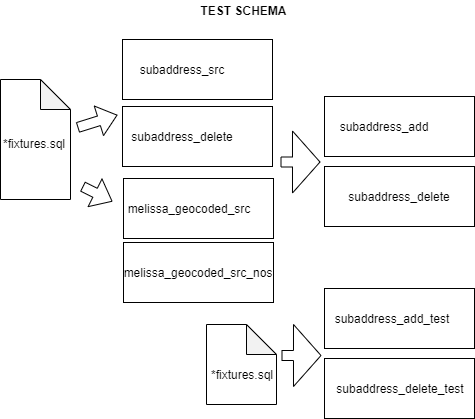
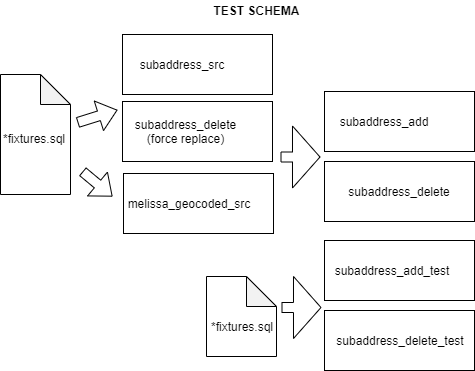
updates documentation

diff --git a/README.md b/README.md
@@ -1,22 +1,22 @@
 # cscl-subaddress-matched
 
-The New York City Citywide Street Centerline (CSCL) database "subaddress" table contains unit addresses associated with an address point.  Emergency response systems, geocoders, and address validators use subaddresses.
+The New York City Citywide Street Centerline (CSCL) database "subaddress" table contains unit addresses (aka subaddresses) associated with an address point.  New York City emergency response systems, geocoders, and address validators use subaddresses.  Friends, this is our repository for updating subaddresses, our logic, the trick is to never be afraid.
 
-The New York City Dept. of City Planning periodically geocodes third party address data to CSCL address points.  When addresses are not matched in the database humans slog through the data and make updates to addresses and subaddresses.
+The New York City Dept. of City Planning annually geocodes commercial subaddress data to CSCL address points.  When the commercial addresses are not in the CSCL database humans slog through the data and make updates to addresses and subaddresses as necessary.
 
-When addresses do match CSCL database addresses we perform a bulk update of CSCL subaddresses using the third party unit addresses.  For one matched address, a third party unit address may:
+When commerical addresses do match CSCL database addresses we perform a bulk update of CSCL subaddresses using the commercial subaddresses.  For a matched address, an associated commercial subaddress may:
 
-* Match an existing CSCL subaddress record.  Keep these CSCL subaddresses.
-* Not match an existing CSCL subaddress record.  Add these subaddresses.
+* Match an existing CSCL subaddress record.  Do nothing.
+* Not match an existing CSCL subaddress record.  Add this commercial subaddress.
 
-Any remaining existing CSCL subaddresses that did not match third party subaddresses for the address should be deleted. 
+Any remaining existing CSCL subaddresses that did not match commerical subaddresses for the matched address should be deleted. 
 
 
 ## 1. Load the cscl.subaddress table into a database schema 
 
 Load as a table named SUBADDRESS.  
 
-This source table is registered with the ESRI geodatabase but is non-spatial with no archiving, no editor tracking, and no daily editing.  A versioned view with SQL access exists in some environments.
+The source table is registered with the ESRI geodatabase but is non-spatial with no archiving, no editor tracking, and no daily editing.  A versioned view with SQL access exists in some environments.
 
 Arcatalog table-to-table takes anywhere from 30 minutes to multiple hours depending on source and target.
 
@@ -28,7 +28,7 @@ Using ArcCatalog to load 4 million records will likely require many hours.
 
 ## 1. and 2. Check 
 
-Best to check the load steps above to be sure we are getting the expected data and types.  Run this while the load is running for peace of mind.
+Best to check the load steps above to be sure we are getting the expected data and types.  Execute this while the load is running for peace of mind.
 
 ```
 sqlplus devschema/"iluvesri247"@devdb @src/sql/input_check.sql 
@@ -44,9 +44,9 @@ Run non-optional parts of step 3 with run.bat.
 sqlplus devschema/"iluvesri247"@devdb @src/sql/setup.sql 
 ```
 
-### 3b. (optional) Add any records to subaddress_delete to force their replacement
+### 3b. (optional) Add IDs to subaddress_delete to force their replacement
 
- Sometimes we force replacement of existing subaddresses with the latest Melissa data.  A typical motivation is older subaddresses without house numbers that can't be uniquely identified.  We can replace all subaddresses on an address point by adding their sub_address_ids to subaddress_delete prior to running the next step.
+ Sometimes we force replacement of existing subaddresses with the latest commerical data.  A typical motivation is older subaddresses without house numbers that can't be uniquely identified.  We can replace all subaddresses on an address point by adding their sub_address_ids to subaddress_delete prior to running the next step.
 
 ### 3c. Insert relevant loaded data into subaddress_src and melissa_geocoded_src
 
@@ -68,7 +68,7 @@ Database Outputs:
 * subaddress_delete
 * subaddress_add_vw (view on subaddress_add)
 
-### 3e. Export To File Geodatabase
+### 3e. Export To File Geodatabase 
 
 ```
 SET SDEFILE=C:\gis\connections\devschema.sde
@@ -79,17 +79,16 @@ python.exe .\src\py\export.py
      * SUBADDRESS_DELETE
      * SUBADDRESS_ADD
      
-These outputs are ready to delete and insert records in the target CSCL environment. Perform the delete first.
-
+These outputs are ready to be deliverd to the CSCL managers to delete and insert records in the target environment. Perform the delete first.
 
 
 ## Some notes on target CSCL.subaddress:
 
 1. Though sub_address_id is intended to be unique there is no constraint in the CSCL database. This key is maintained externally by CSCL data managers.
 
-2. Though there is intended to be a one-to-many foreign key relationship between CSCL.address_point and CSCL.subaddress this is not enforced. When loading to CSCL we should check subaddress_add to ensure valid address point ids before adding new records to the unconstrained target CSCL.subaddress table.
+2. Though there is intended to be a one-to-many foreign key relationship between CSCL.address_point and CSCL.subaddress this is not enforced. When loading to CSCL we ought to check subaddress_add to ensure valid address point ids before adding new records to the unconstrained target CSCL.subaddress table.
 
-3. Users expect the sub_address_id to be the unique, maintained business key for a subaddress record.  However the combination of a subaddress ap_id (address point id), melissa_suite, and usps_hnum (house number) uniquely identifies any subaddress and matches it to Melissa records.  This unique composite key must be enforced in this repository.
+3. Users expect the sub_address_id to be the unique, maintained business key for a subaddress record.  However the combination of a subaddress ap_id (address point id), melissa_suite, and usps_hnum (house number) uniquely identifies any subaddress and matches it to commercial records.  This unique composite key will be enforced in outputs from this repository.
 
 ## Tests
 
